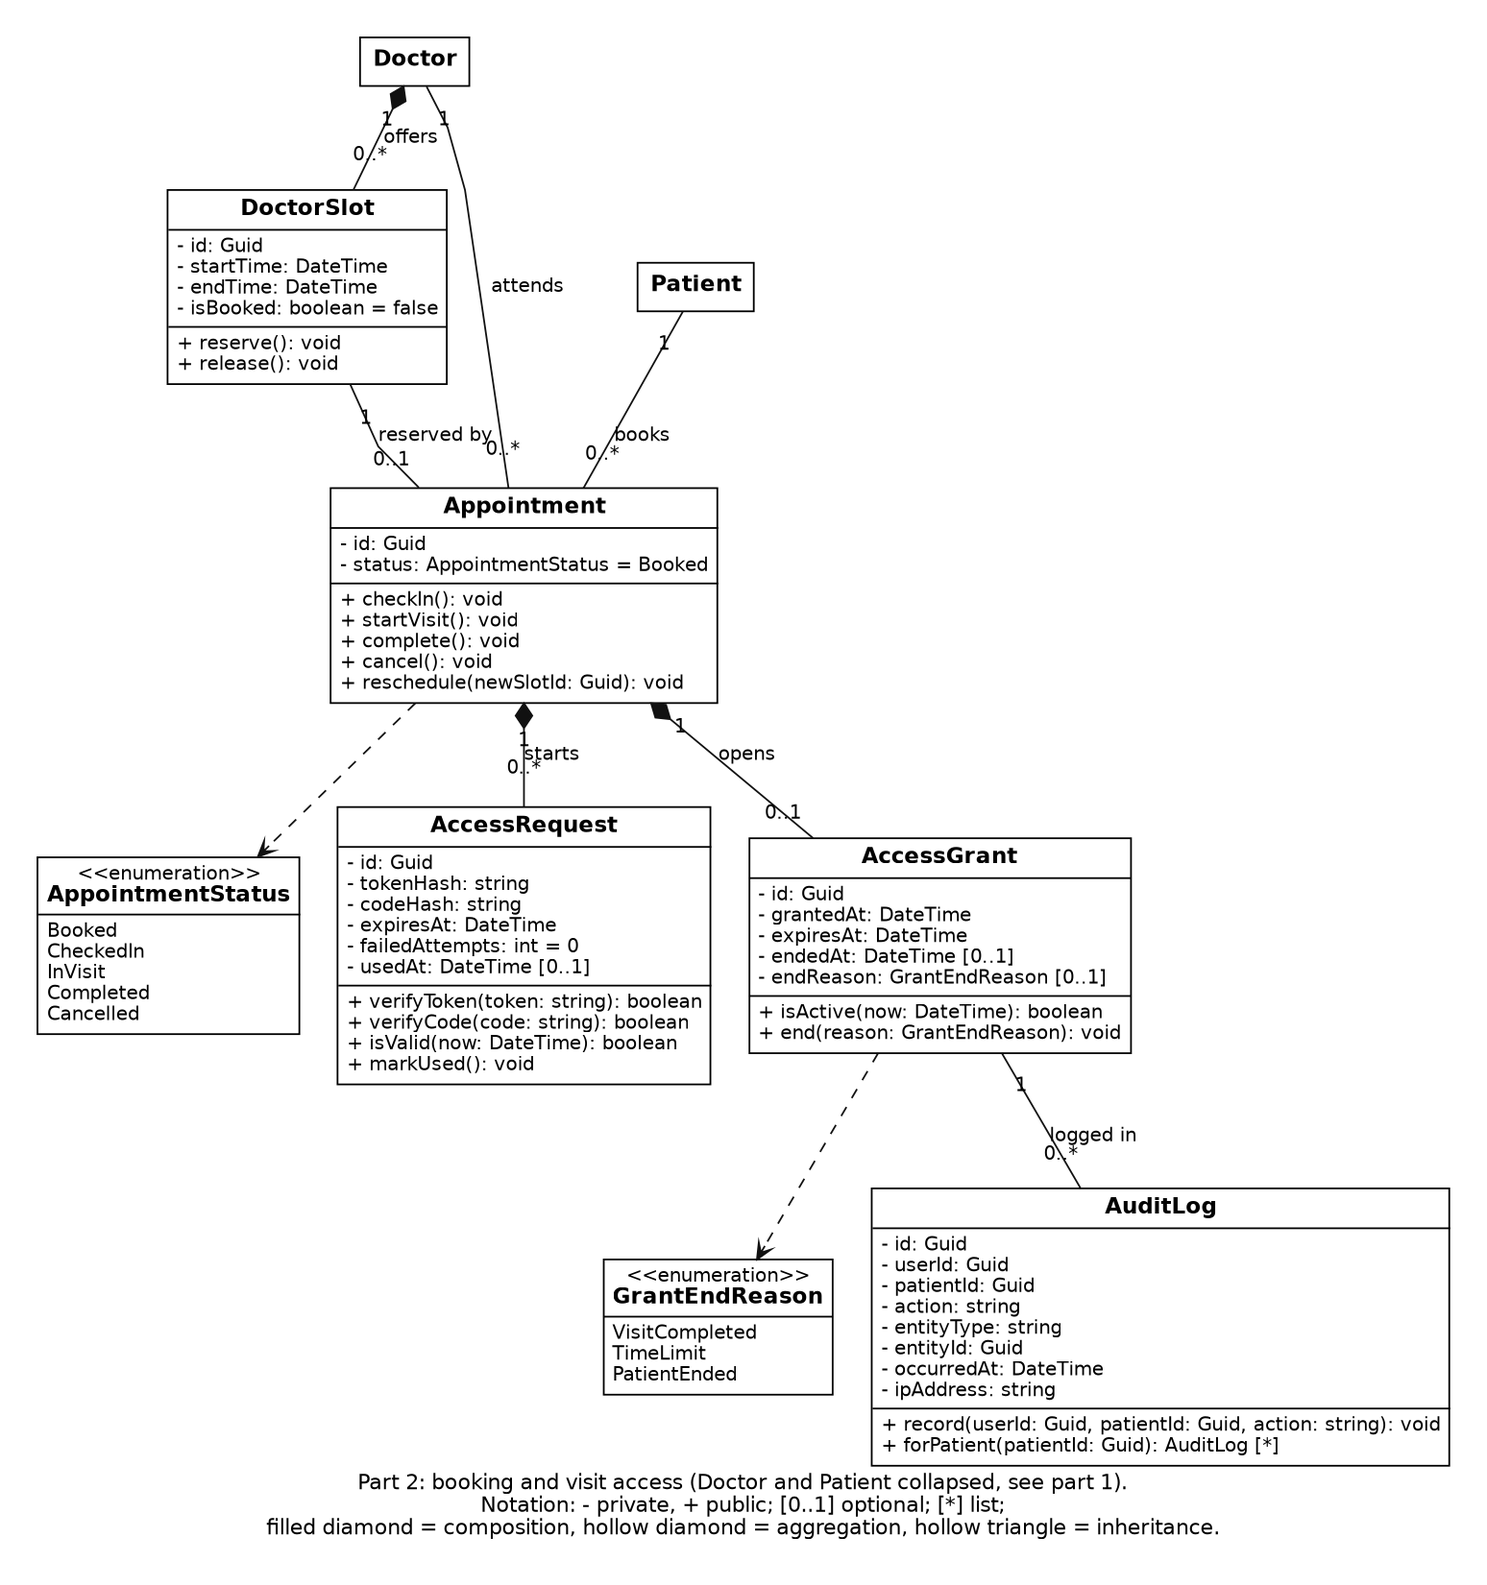
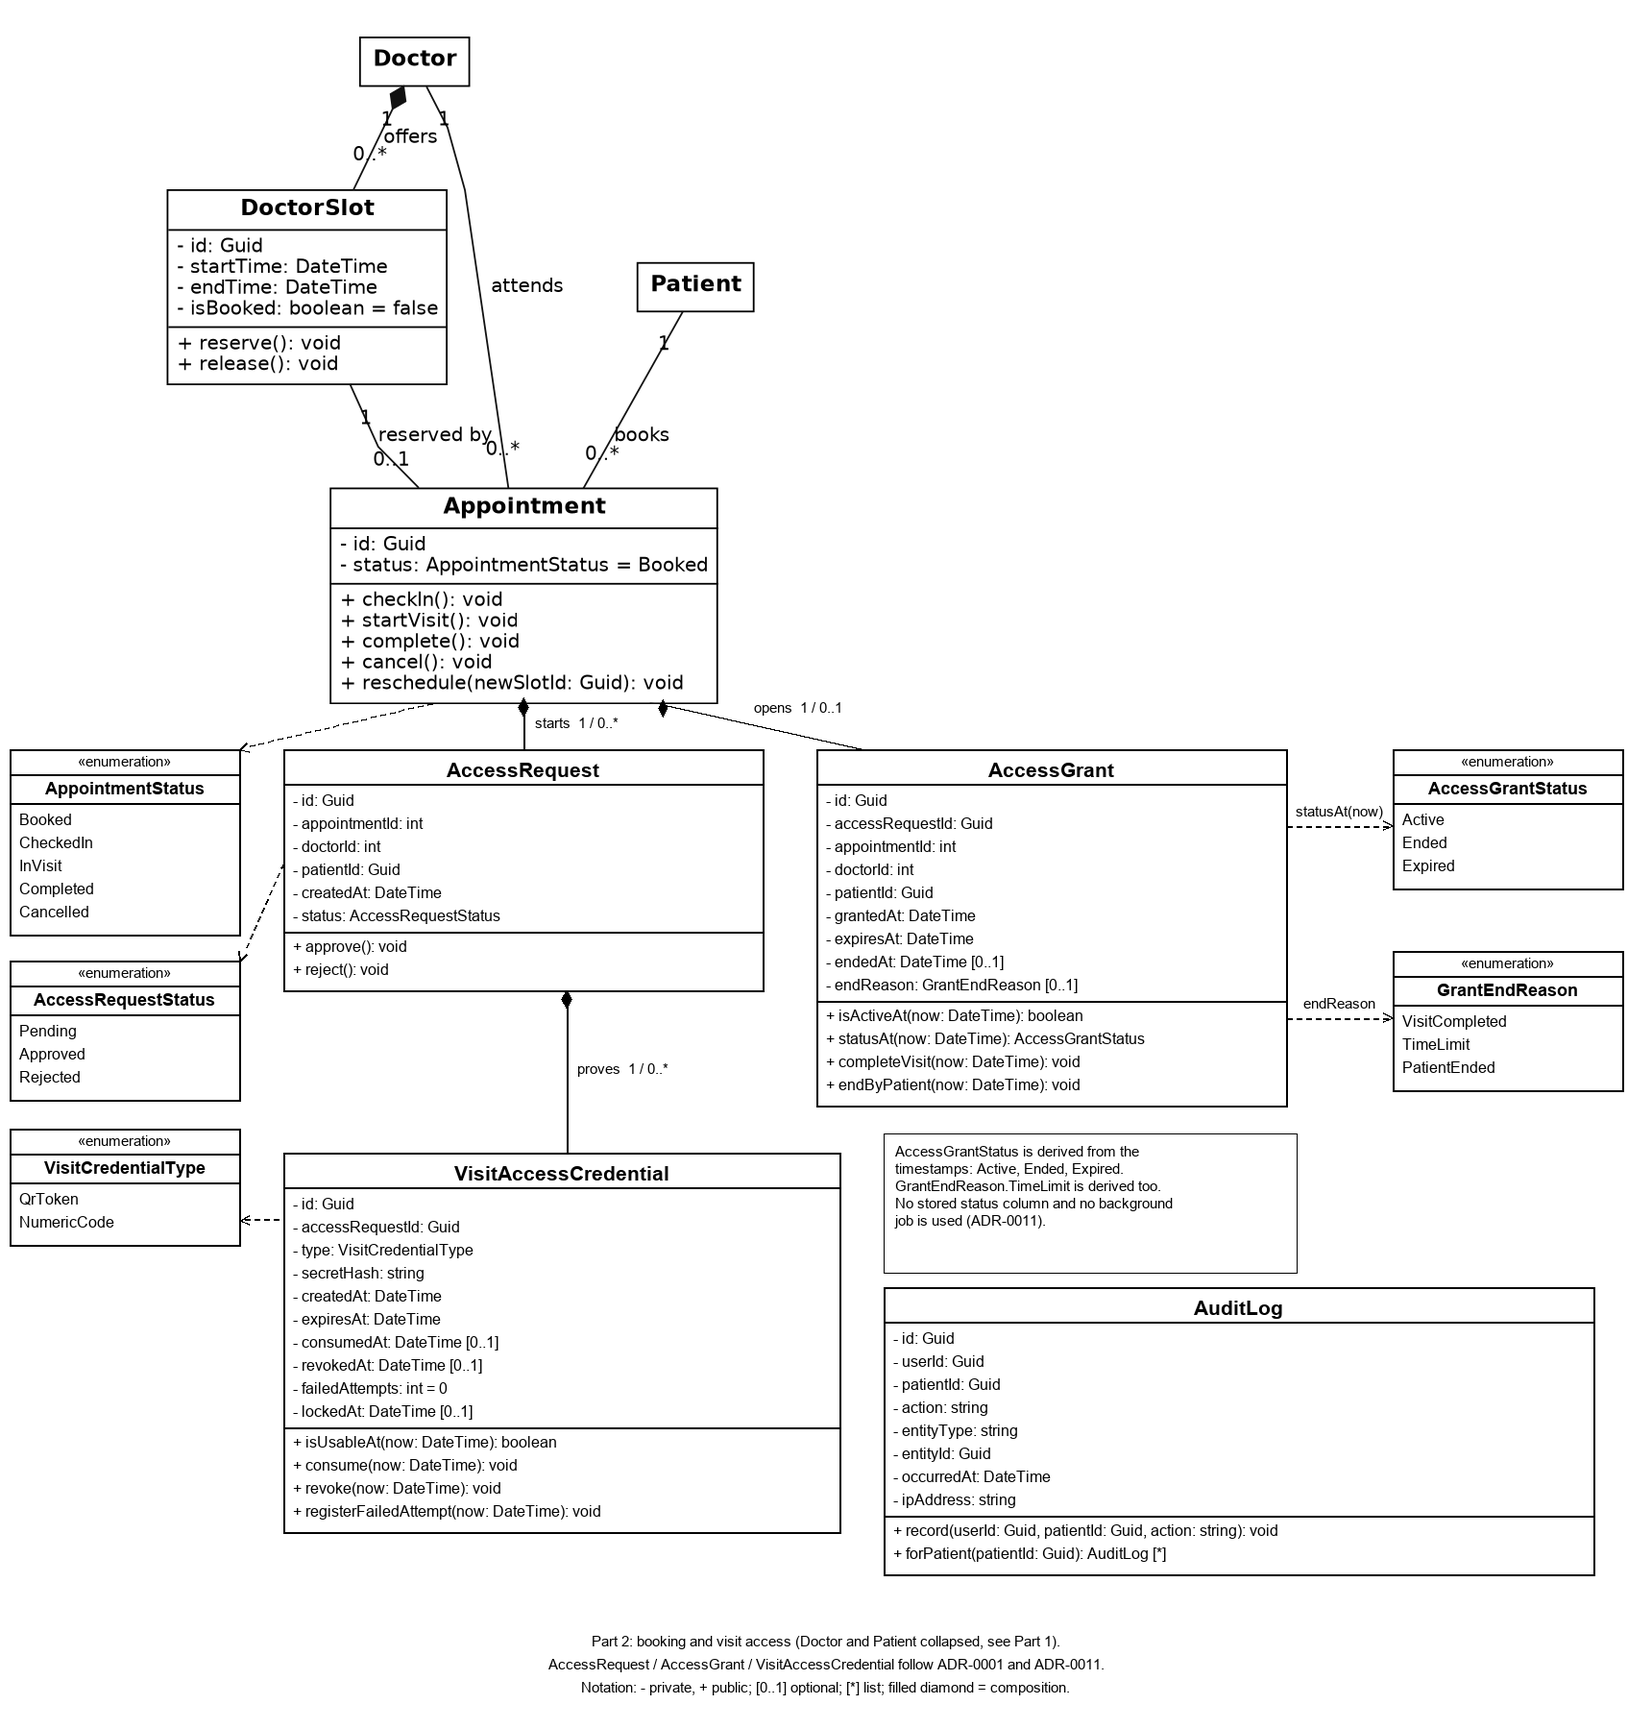
docs record pending ADR decisions and refresh class diagrams
Record the 2026-11-05 review outcomes that were left out of MP-1301: ADR-0003 gains an implementation review of the Accounts gaps and stays Proposed; ADR-0009 accepts the amended baseline and migration policy; ADR-0010 accepts the validation and ProblemDetails contract after MP-1306.

Update the ADR index with the new statuses and resolved decisions, sync AGENTS.md sections 6 and 8 with the current Swagger/auth state, build warning and EF tooling, and refresh the full and Booking/Access class diagrams.

No application code, tests or schema changes. The build and test suite were run on the parent MP-1301 commit.

diff --git a/docs/architecture/decisions/0009-database-baseline-strategy.md b/docs/architecture/decisions/0009-database-baseline-strategy.md
@@ -1,49 +1,67 @@
 # ADR-0009: One coordinated database baseline, then serialized migrations
 
-- **Status:** Proposed (blocked: no database migration owner has been named yet)
-- **Date:** 2026-10-29
+- **Status:** Accepted (2026-11-05, amended). The initial baseline has already landed; decisions 1-8 are binding.
+- **Date:** 2026-10-29 (amended 2026-11-05)
 - **Affects:** all modules, CONTRIBUTING/README migration rules, CI
 
 ## Context
 
-There are **no migrations** today (verified 2026-10-29). CONTRIBUTING.md and README both say "one migration per pull
-request, never edit a merged migration". Six modules are developed in parallel, and every EF migration embeds a full
-model snapshot, so six modules generating their first migration at the same time guarantees snapshot merge conflicts.
-The planning document already assigns the database context and seed script to one owner (Nagham, §3.3) and calls for
-"database schema agreed" in Sprint 1.
+This ADR was written on 2026-10-29, when the repository had **no migrations**. It proposed an entity-only freeze
+followed by one coordinated `InitialSchema` migration, so six parallel modules would not generate six competing
+"first" migrations and snapshots.
+
+That window has closed. At amendment time the repository has five merged migrations:
+
+`InitialCreate`, `AddRoleInApplicationUser`, `AddClinicalSchema`, `EnforceAppointmentDoctorSlotMatch`, and
+`AddVisitAccessSchema`.
+
+Retrofitting the original single-baseline plan would require squashing or replaying already merged migrations and
+would break every developer database. The durable part of the decision is the rule that keeps parallel modules from
+fighting over the shared snapshot after a baseline exists.
 
 ## Decision
 
-1. **Contract-first entity freeze.** Each module merges its entities + `IEntityTypeConfiguration` classes **without a
-   migration** (entity-only PRs, reviewable in isolation).
-2. **One coordinated `InitialSchema` migration** is created once, after the Must entities exist (Identity/users,
-   clinic/doctor/slot/appointment, access request/credential/grant, medical record/diagnosis/prescription/report,
-   audit), by the named migration owner (Nagham), with all module owners reviewing the generated SQL. It lands in its
-   own PR, contains only the migration + snapshot, and is the team's shared baseline.
-3. **After the baseline: serialize.** One migration per PR, announced in the weekly technical sync, never two open
-   migration PRs from different modules; rebase on `main` before regenerating.
-4. **Schema layout** follows the documented separation: `identity`, `clinical`, `access`, `records`, `audit`
-   (configured per entity with `ToTable(name, schema)`), so table names stay scoped and cross-module queries stay explicit.
-5. **Drift guard:** CI (or a pre-PR local step) runs `dotnet ef migrations has-pending-model-changes`
-   (EF Core 10 command, verified) so a merged entity change cannot slip past the snapshot.
-6. **Seed data** is added by seeders (existing `ISeeder` contract), after the baseline, and stays idempotent.
-7. `Program.cs` does not call `Migrate()`: developers and CI apply migrations explicitly
-   (`dotnet ef database update --project src/MediPassPlus.Infrastructure --startup-project src/MediPassPlus.Api`).
+1. **The baseline is closed.** The merged chain above is the shared baseline. Do not create a second `InitialSchema`,
+   do not squash or replay merged migrations, and do not use `EnsureCreated()`.
+2. **One migration per PR.** Every PR that changes the model includes exactly one migration and the updated
+   `MediPassDbContextModelSnapshot.cs`. Entity and `IEntityTypeConfiguration` changes stay in the same PR as their
+   migration. Never edit a migration that is already merged; a mistake is corrected with a new migration.
+3. **Serialize migrations.** Announce a migration PR in the weekly technical sync. Do not keep two open migration PRs
+   from different modules. Rebase on `main` before regenerating. If the snapshot conflicts, regenerate it from the
+   model after the rebase; never hand-merge the snapshot. The team leader coordinates this serialization; a separate
+   baseline owner is no longer needed.
+4. **Schema layout.** Use the documented separations: `identity`, `clinical`, `access`, `records`, `audit`, configured
+   per entity with `ToTable(name, schema)`. Table names stay scoped and cross-module queries stay explicit.
+5. **Drift guard.** Run `dotnet ef migrations has-pending-model-changes` before opening a PR and add it to CI when the
+   pipeline supports it, so a merged entity change cannot slip past the snapshot.
+6. **Seed data.** Seeders implement the existing `ISeeder` contract, run after the schema exists, and stay idempotent.
+   Never seed real patient data, secrets or production identifiers.
+7. **No automatic migration.** `Program.cs` does not call `Migrate()` or `EnsureCreated()`. Developers and CI apply
+   migrations explicitly:
+   `dotnet ef database update --project src/MediPassPlus.Infrastructure --startup-project src/MediPassPlus.Api`.
+8. **Safety review.** Read the generated SQL before applying it. Test the migration on an empty database and on a copy
+   of an existing database. Prefer additive changes. A destructive change - drop, rename, type narrowing or data
+   rewrite - needs a backup and explicit approval for that specific migration.
 
 ## Consequences
 
-- One large baseline PR, but a single snapshot that no module has to merge.
-- Modules can implement endpoints before the baseline only if they do not need a real database; otherwise the baseline
-  is a hard dependency for end-to-end runs — plan it before the first feature demo.
-- The "one migration per PR" rule in CONTRIBUTING stays true for everything after the baseline; the baseline PR
-  documents itself as the exception.
+- The baseline is a fact, not a future step; new modules add migrations to the existing chain.
+- The team still shares one snapshot, so migration PRs must be short-lived and serialized.
+- The "one migration per PR" rule in CONTRIBUTING is now unconditional and applies to every module.
+- A bad merged migration is fixed forward with a new migration, never by editing history.
+- The first migration after a model change is cheap to review; a long migration PR is a warning sign.
 
 ## Alternatives considered
 
-- *Per-module first migrations* — rejected: parallel snapshot conflicts, six "first" migrations, unmanageable review.
-- *`EnsureCreated` in development, migrations later* — rejected: drifts from production schema and breaks NFR-REL-03
-  checks (unique constraints, filtered indexes).
+- **Retrofit the original single-baseline plan.** Rejected: it would require rewriting five merged migrations and
+  invalidating every developer database.
+- **`EnsureCreated` in development, migrations later.** Rejected: it drifts from the production schema and breaks
+  NFR-REL-03 checks (unique constraints, filtered indexes).
+- **Let each module generate migrations independently without serialization.** Rejected: the shared snapshot produces
+  merge conflicts and broken migration chains.
 
 ## Conflict check
 
-No conflict. It operationalizes the existing "one migration per PR" rule and the Sprint-1 "schema agreed" milestone.
+No conflict with a requirement. The amendment records the baseline that actually landed and keeps the original
+serialization intent. It does not change ADR-0003 (Identity), ADR-0006 (integration tests) or ADR-0011 (grant
+lifecycle).

diff --git a/AGENTS.md b/AGENTS.md
@@ -117,11 +117,12 @@ exists, the sentence that says it does not is a bug, and an agent that trusts it
   that holds real data.
 - The `Bearer` scheme and the per-operation security requirement come from `OpenApi/BearerSecuritySchemeTransformer`.
   It marks operations that carry `[Authorize]` automatically, so do not hand-write security requirements.
-- **Scaffold state:** Swagger UI works today, but the repository has no authentication and no authorized business
-  endpoint, so the login → Bearer round-trip cannot be exercised yet. The login endpoint and the first `[Authorize]`
-  endpoints must be implemented before the padlocks and the token flow mean anything.
-- **Once login exists:** call the login endpoint, copy the `accessToken` value, click **Authorize**, paste the raw token
-  (no `Bearer ` prefix) and execute. The token lives in the browser tab only.
+- **Current state:** Swagger UI works and the Accounts endpoints (`register`, `login`, `forgot-password`,
+  `reset-password`) exist. The only `[Authorize]` operation is `POST api/Auth/create-admin`, which requires an existing
+  admin account; no admin is seeded yet. There is still no authorized business (medical) endpoint; the first
+  visit-access endpoints will exercise the grant checks.
+- **To call an authorized endpoint:** log in with `POST api/Auth/login`, copy the `accessToken` value, click
+  **Authorize**, paste the raw token (no `Bearer ` prefix) and execute. The token lives in the browser tab only.
 - When you add an authorized endpoint, document its real auth contract: `[ProducesResponseType]` plus `<response>` for
   `401` (missing, invalid or expired token) and `403` (wrong role, no active grant, expired or ended grant), along with
   every other status it can return. The transformer supplies the security requirement; you still own the response
@@ -150,7 +151,7 @@ npm 11.19.0. That is a record of one run, not a guarantee for every machine — 
 Backend, from the repo root — this is also the CI sequence:
 
 ```powershell
-dotnet build --configuration Release        # builds MediPassPlus.slnx, 0 warnings
+dotnet build --configuration Release        # 0 errors; 1 pre-existing warning (JwtSettings.Key)
 dotnet test --no-build --configuration Release
 dotnet test tests/MediPassPlus.Domain.Tests --filter FullyQualifiedName~MyTest   # single test
 dotnet run --project src/MediPassPlus.Api --launch-profile http   # http://localhost:5114
@@ -176,7 +177,8 @@ dotnet ef database update --project src/MediPassPlus.Infrastructure --startup-pr
 - The solution is `.slnx`, not `.sln`. Keep the real casing `MediPassPlus.Infrastructure` (Linux CI is
   case-sensitive).
 - `dotnet-ef` 10.0.11 is installed as a global tool. Migrations live in `src/MediPassPlus.Infrastructure/Migrations/`;
-  do not pass `--output-dir`, or EF creates a second snapshot.
+  do not pass `--output-dir`, or EF creates a second snapshot. The tools print a version-mismatch warning against the
+  10.0.14 runtime; it is not a build failure.
 - `ng test` accepts only Angular builder flags. Vitest flags fail (`--pool` → "Unknown argument"); `--watch=false` and
   a spec path are the supported ones. A cold run can also die with `Failed to start forks worker` before any test
   executes. Do not treat a passing rerun as the fix: record the original failure, check that no stale Node/Vitest worker

diff --git a/docs/architecture/decisions/README.md b/docs/architecture/decisions/README.md
@@ -11,13 +11,14 @@ be resolved by the team, not silently.
 |---|---|---|---|
 | [0001](0001-separate-visit-access-credentials.md) | Separate QR token and 6-digit code credentials | **Accepted** | Visit Access entities |
 | [0002](0002-code-generation-and-verification-actors.md) | Code generation and verification actors (doctor-only) | **Accepted** | Visit Access endpoints |
-| [0003](0003-identity-and-jwt-authentication.md) | ASP.NET Core Identity with JWT authorization | Proposed — user model + refresh tokens | Accounts, every authorized endpoint |
+| [0003](0003-identity-and-jwt-authentication.md) | ASP.NET Core Identity with JWT authorization | Proposed — user model + refresh tokens; see implementation review | Accounts, every authorized endpoint |
 | [0004](0004-audit-logging.md) | Audit logging scope and controlled values | **Accepted** | Record, Privacy, Visit Access |
 | [0005](0005-diagnosis-relationships.md) | Diagnosis → record and appointment relationships | Proposed — revised, awaiting review | Medical Record entities |
 | [0006](0006-api-integration-tests.md) | HTTP integration tests with WebApplicationFactory | Proposed — Testcontainers not approved | Authorization test matrix (NFR-SEC-10) |
 | [0007](0007-rate-limiting-and-data-protection.md) | Rate limiting and Data Protection keys | **Accepted** (values under security review) | Platform, Visit Access, Record |
 | [0008](0008-openapi-and-xml-documentation.md) | OpenAPI, Swagger UI and XML documentation | **Accepted** | Every endpoint PR |
-| [0009](0009-database-baseline-strategy.md) | Coordinated database baseline, then serialized migrations | Proposed — owner not named | All schema work |
+| [0009](0009-database-baseline-strategy.md) | Coordinated database baseline, then serialized migrations | **Accepted** (amended 2026-11-05) | All schema work |
+| [0010](0010-validation-and-error-format.md) | Input validation with FluentValidation and one ProblemDetails error format | **Accepted** (2026-11-05) | Every endpoint PR, error contract |
 | [0011](0011-access-grant-lifecycle.md) | Access grant lifecycle and status derivation | **Accepted** (2026-11-05; amended 2026-11-05 for composite scope enforcement) | Visit Access checker, grant endpoints |
 
 ## How to use these records
@@ -36,7 +37,9 @@ be resolved by the team, not silently.
 - Refresh-token storage and rotation (ADR-0003, open).
 - Integration-test database: Testcontainers SQL Server vs SQLite in-memory (ADR-0006, open).
 - Lockout duration, since the requirements only say "for a period" (ADR-0003, assumption: 15 minutes).
-- Named owner for the baseline migration and for the serialized-migration rule (ADR-0009, open).
 
 Resolved on 2026-10-29: code verification is doctor-only (ADR-0002); `Diagnosis.AppointmentId` is required
 (ADR-0005 revision); Swagger UI is a Development tool and the document is off in Production by default (ADR-0008).
+Resolved on 2026-11-05: the baseline is closed and migrations are serialized (ADR-0009); the validation/error format
+(ADR-0010) and the access-grant lifecycle (ADR-0011) are accepted. ADR-0003 remains open on the implementation gaps
+listed in that file.

diff --git a/docs/architecture/decisions/0003-identity-and-jwt-authentication.md b/docs/architecture/decisions/0003-identity-and-jwt-authentication.md
@@ -1,7 +1,7 @@
 # ADR-0003: ASP.NET Core Identity with JWT authorization
 
-- **Status:** Proposed (blocked: the Identity user-model shape — TPH subclasses vs profile tables — and the
-  refresh-token storage/rotation design are not confirmed)
+- **Status:** Proposed (blocked: user-model shape and refresh-token design; see the 2026-11-05 implementation review
+  below)
 - **Date:** 2026-10-29
 - **Affects:** Accounts module, every authorized endpoint, class diagram (D4), database baseline
 
@@ -29,6 +29,33 @@ what the documents require, and it would duplicate Identity.
 5. Deactivated accounts (FR-STF-07) block login (Identity lockout) **and** carry an `IsActive` flag; because JWT bearer
    validation does not hit the database, deactivation takes effect at latest when the 15-minute access token expires.
 6. JWT signing key comes from `Jwt:Key` (user-secrets/env); it is never the Data Protection key (ADR-0007).
+
+## Implementation review (2026-11-05)
+
+The merged Accounts code follows the Identity/JWT direction but does not yet satisfy this ADR. Do not mark the ADR
+Accepted until the gaps are closed or the decision is amended by the team.
+
+Aligned:
+
+- `ApplicationUser : IdentityUser<Guid>`; Identity owns the password hash and user record.
+- JWT access tokens carry the user id and role claims, with a 15-minute lifetime.
+- `IsActive` is checked at login, so a deactivated account cannot obtain a token.
+
+Gaps:
+
+- **Password policy:** the code requires an uppercase letter and a non-alphanumeric character; this ADR and FR-ACC-02
+  say `false`. Decide whether to relax the code or amend the ADR/requirement.
+- **Lockout:** login uses `CheckPasswordAsync`, not `CheckPasswordSignInAsync(..., lockoutOnFailure: true)`, and
+  `MaxFailedAccessAttempts` / `DefaultLockoutTimeSpan` are not configured. FR-ACC-05 is not implemented.
+- **Refresh tokens:** there is no refresh-token table, rotation, revocation or endpoint; `RefreshTokenDays` is unused.
+  FR-ACC-06 is not implemented.
+- **User model:** the code uses one `ApplicationUser` plus a `Doctor` profile table and a duplicate `Role` string. The
+  TPH-vs-profile sub-decision and the single source of truth for roles remain unresolved.
+- **Role assignment:** registration accepts a role from the request body and allows `Doctor`/`Staff` self-assignment.
+  AGENTS.md §4 forbids trusting a role from a request body; administration must assign privileged roles.
+- **Role names:** the seeder creates `Staff`; this ADR and the requirements use `ClinicStaff`.
+- **JWT key name:** the code binds `Jwt:SecretKey`; this ADR names `Jwt:Key`. Standardize one name and keep the value
+  outside the repository.
 
 ## Open sub-decisions (block the Accounts PR, not the ADR)
 

diff --git a/docs/architecture/decisions/0010-validation-and-error-format.md b/docs/architecture/decisions/0010-validation-and-error-format.md
@@ -1,7 +1,6 @@
 # ADR-0010: Input validation with FluentValidation and one ProblemDetails error format
 
-- **Status:** Proposed (2026-11-02) — chosen by the module owner (Arwa) for MP-1306; awaiting team-leader acceptance
-  before merge.
+- **Status:** Accepted (2026-11-05). Merged in MP-1306 (#12); the open questions below are follow-ups, not blockers.
 - **Date:** 2026-11-02
 - **Affects:** every endpoint PR, `MediPassPlus.Api`, `MediPassPlus.Application`, the API error contract
 
